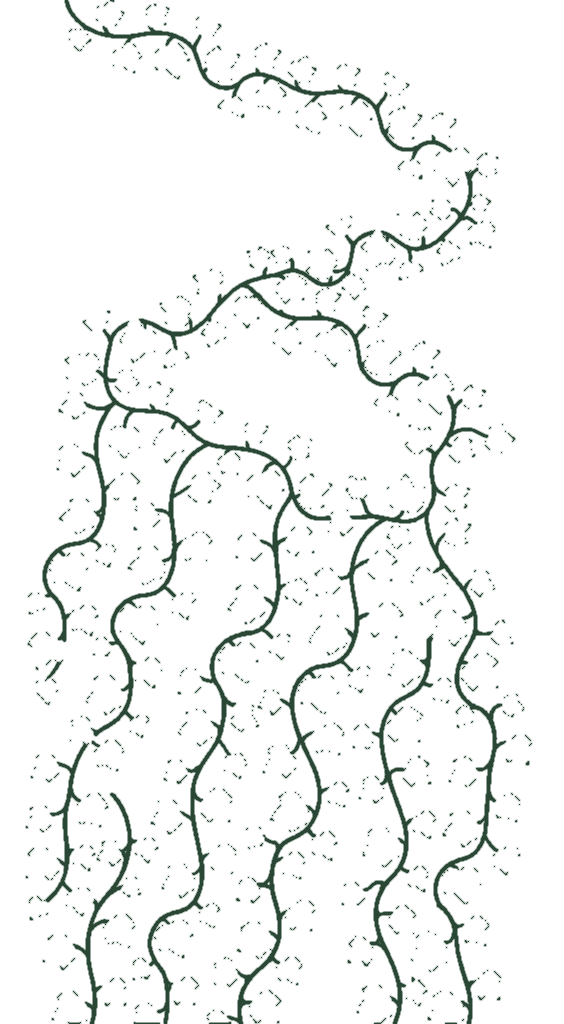
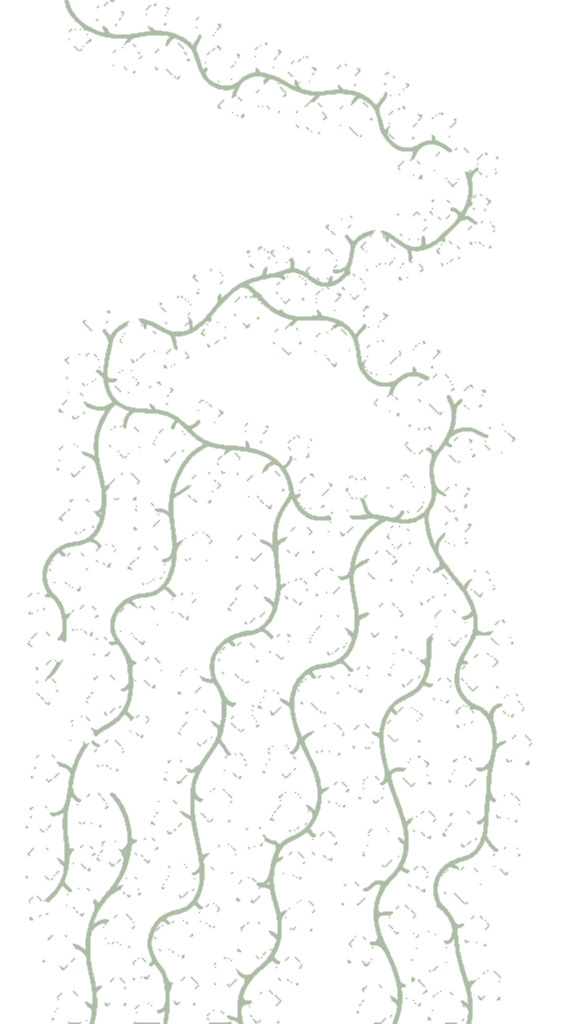
fix(animation): unify vine colors across stems, branches, and leaves into cohesive botanical tone

diff --git a/client/src/ivy-growth.js b/client/src/ivy-growth.js
@@ -2,7 +2,7 @@
 // - Single continuous botanical vine that unfurls and branches as the user scrolls through #contentTrack to the end of the site
 // - Zero gap: absolute container with sticky flex rail spanning #problem to #connect
 // - Hero section is 100% clean and minimal (zero ivy)
-// - Polished, high-contrast forest-green stems (#2a4635) and velvety sage leaves
+// - Unified, harmonious botanical green across all vine elements (stems, branches, and leaves)
 // - Emil Kowalski animation principles: critically damped lerp, organic blooming ease, and fluid micro-transitions
 
 export async function initIvyGrowth() {
